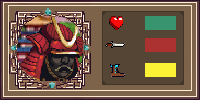
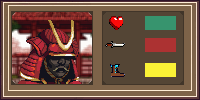
updated character portrait

Changed region(s): [[0.03, 0.09, 0.48, 0.9]]

diff --git a/src/screens/InterfaceGame.java b/src/screens/InterfaceGame.java
@@ -49,8 +49,8 @@ public class InterfaceGame {
             }
         }
 
-        int x = 10;
-        int y = GameView.GAME_HEIGHT - (int) (characterPortraitAndStats.getHeight() * 1.5) - 20;
+        int x = 0;
+        int y = 0;
         g.drawImage(characterPortraitAndStats, x, y, (int) (characterPortraitAndStats.getWidth() * 1.5), (int) (characterPortraitAndStats.getHeight() * 1.5), null);
 
         int totalX = x + (int) (squareX * 1.5);
@@ -67,6 +67,30 @@ public class InterfaceGame {
         int textX = totalX + 90 + (int) (characterPortraitAndStats.getWidth() * 1.5) / 2 - textWidth / 2;
         int textY = totalY - 45 + (int) (characterPortraitAndStats.getHeight() * 1.5) / 2 + textHeight / 2;
         g.drawString(health, textX, textY);
+
+
+        for (int i = 0; i < characterPortraitAndStats.getWidth(); i++) {
+            for (int j = 0; j < characterPortraitAndStats.getHeight(); j++) {
+                if (characterPortraitAndStats.getRGB(i, j) == Color.decode("#ac3232").getRGB()) {
+                    characterPortraitAndStats.setRGB(i, j, Color.decode("#544535").getRGB());
+
+                    squareX = i;
+                    squareY = j;
+                }
+            }
+        }
+
+        String maxDamage = String.valueOf(player.getMaximumDamagePerAttack());
+        g.setColor(Color.WHITE);
+        g.setFont(new Font("Arial", Font.BOLD, 20));
+
+        fm = g.getFontMetrics();
+        textWidth = fm.stringWidth(maxDamage);
+        textHeight = fm.getHeight();
+
+        textX = totalX + 90 + (int) (characterPortraitAndStats.getWidth() * 1.5) / 2 - textWidth / 2;
+        textY = totalY - 12 + (int) (characterPortraitAndStats.getHeight() * 1.5) / 2 + textHeight / 2;
+        g.drawString(maxDamage, textX, textY);
 
         drawScore(g, score);
 
